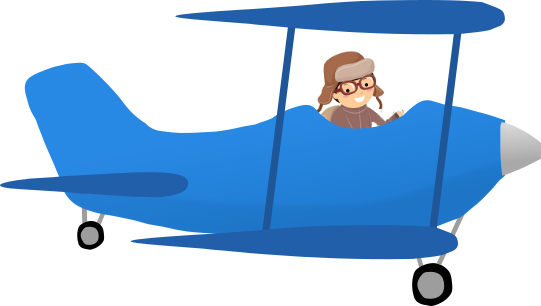
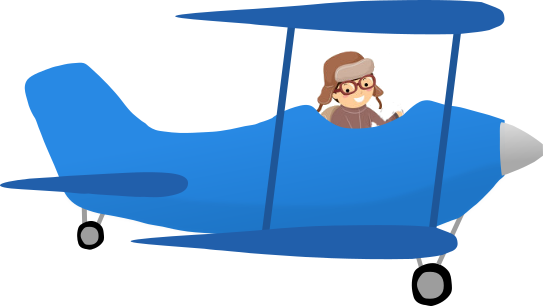
bug fix where you fall into the ground sometimes at a slow take off.  Red enemy plane. Score aim now first to 7.

diff --git a/js/app.js b/js/app.js
@@ -3,7 +3,8 @@
  *****
  *****
  */
-
+/* Blue plane: #2889e4, #1f7bd1, wing: #215fab
+  Red Plane:   #db2937, #b41a28, wing: #930913 */
 /*****************************************************************/
 var PLAYER=1, ENEMY=2;
 /******** GAME CALIBRATION VARIABLES ********/
@@ -72,8 +73,8 @@ var playState = {
     this.bullets = new Bullets(game.world);
 
     this.planesGroup = game.add.group();
-    this.player = new Player(1210, 665, LEFT);
-    this.enemy = new Enemy(50, 665, RIGHT);
+    this.player = new Player(1210, 676/*665*/, LEFT, /*sprite color*/0);
+    this.enemy = new Enemy(50, 676, RIGHT, /*sprite color*/2);
 
     this.explosions = new Explosions(game.world);
 
@@ -134,14 +135,15 @@ var playState = {
   },
 
   render: function() {
-    var speed = vectorToPower(this.player.plane.body.velocity);
-    game.debug.text(game.time.fps+"fps "
-    + "Scrn "+game.scale.width.toFixed(0)+","+game.scale.height.toFixed(0)
+    //var speed = vectorToPower(this.player.plane.body.velocity);
+    //game.debug.text(game.time.fps+"fps "
+    //+ "Scrn "+game.scale.width.toFixed(0)+","+game.scale.height.toFixed(0)
     //+" cam "+game.camera.x+","+game.camera.y
-    +" pitchSpeed "+this.player.plane.pitchSpeed.toFixed(0)
-    +" velocity "+speed.toFixed(0)
+    //+" plane "+this.player.plane.x.toFixed(0)+","+this.player.plane.y.toFixed(0)
+    //+" pitchSpeed "+this.player.plane.pitchSpeed.toFixed(0)
+    //+" velocity "+speed.toFixed(0)
     //+" speed "+this.player.plane.body.speed.toFixed(0)
-    , 150, 14, "#00ff00");
+    //, 150, 14, "#00ff00");
     //game.debug.body(this.player.plane);
     //game.debug.body(this.enemy.plane);
     //game.debug.body(this.tower);

diff --git a/js/plane.js b/js/plane.js
@@ -1,17 +1,16 @@
 
 /* The Plane object
  * An extension of the sprite class */
-Plane = function(x,y, dir) {
+Plane = function(x,y, dir, startFrame) {
   Phaser.Sprite.call(this, game, x, y, 'plane');
   //this.animations.add('fly', [1,2,3,4], 10, true);
 
   game.physics.enable(this, Phaser.Physics.ARCADE);
-  /* make the ship naturally slow to a stop if left */
-  //this.body.drag = new Phaser.Point(20,20);
   this.anchor.set(0.5, 0.5);
   this.scale.set(0.55,0.55);
   this.body.setSize(50,50,25,25);
   this.body.allowGravity = false;
+  this.startFrame=startFrame;
   this.myReset(dir);
   myGame.planesGroup.add(this); /* group */
   myGame.updateSignal.add(this.update, this); /* we need to recalc each update, so subscribe */
@@ -25,7 +24,7 @@ Plane.prototype.setParent=function(p){ this.myParent=p; }
 Plane.prototype.myReset = function (dir){ 
   //this.frame = 0;
   this.direction=dir; /* which way the planes pointing */
-  this.frame = (this.direction==LEFT ? 0 : 1);
+  this.frame = (this.direction==LEFT ? this.startFrame+0 : this.startFrame+1);
   this.angle = (this.direction==LEFT ? 270 : 90); /* 0 points the plane straight up */
   this.engineSpeed = 0; /* these 2 speed figures are combined for actual speed */
   this.pitchSpeed = 0;  /* engineSpeed set by user, pitchSpeed set from climbing or goning down */

diff --git a/js/enemy.js b/js/enemy.js
@@ -1,8 +1,8 @@
 
-Enemy = function(x,y, dir) {
+Enemy = function(x,y, dir, startFrame) {
   this.x=x; this.y=y; this.dir=dir; /* respawn place, dir=LEFT or RIGHT */
   this.score=0;
-  this.plane = new Plane(x,y, dir);
+  this.plane = new Plane(x,y, dir, startFrame);
   this.plane.setParent(this);
   this.ai = new AI(this.plane, myGame.player.plane, /*respawn place*/x,y,dir);
   this.bulletTime=0;
@@ -20,7 +20,7 @@ Enemy.prototype.onKilled = function() {
 Enemy.prototype.scored = function() {
   this.score++;
   myGame.scoreboard.scored(ENEMY);
-  if (this.score >= 10) myGame.endGame(LOOSE);
+  if (this.score >= 7) myGame.endGame(LOOSE);
 };
 Enemy.prototype.respawnPlane = function() {
   this.plane.revive();

diff --git a/js/player.js b/js/player.js
@@ -1,8 +1,8 @@
 
-Player = function(x,y, dir) {
+Player = function(x,y, dir, startFrame) {
   this.x=x; this.y=y; this.dir=dir;
   this.score=0;
-  this.plane = new Plane(x,y, dir);
+  this.plane = new Plane(x,y, dir, startFrame);
   this.plane.setParent(this);
   this.ai = null; /* were human, so no AI needed to control plane */
 }
@@ -18,7 +18,7 @@ Player.prototype.onKilled = function() {
 Player.prototype.scored = function() {
   this.score++;
   myGame.scoreboard.scored(PLAYER);
-  if (this.score >= 10) myGame.endGame(WIN);
+  if (this.score >= 7) myGame.endGame(WIN);
 };
 
 Player.prototype.respawnPlane = function() {

diff --git a/js/menu.js b/js/menu.js
@@ -38,7 +38,7 @@ var menuState = {
     this.planeGroup.add(this.plane);
     this.prop = game.add.sprite(271,-4, 'prop');
     this.prop.anchor.set(0.5, 0.5); 
-    this.prop.animations.add('spin', [0,1], 60, true);
+    this.prop.animations.add('spin', [0,1,3], 60, true);
     this.prop.animations.play('spin');
     this.plane.addChild(this.prop);
 
